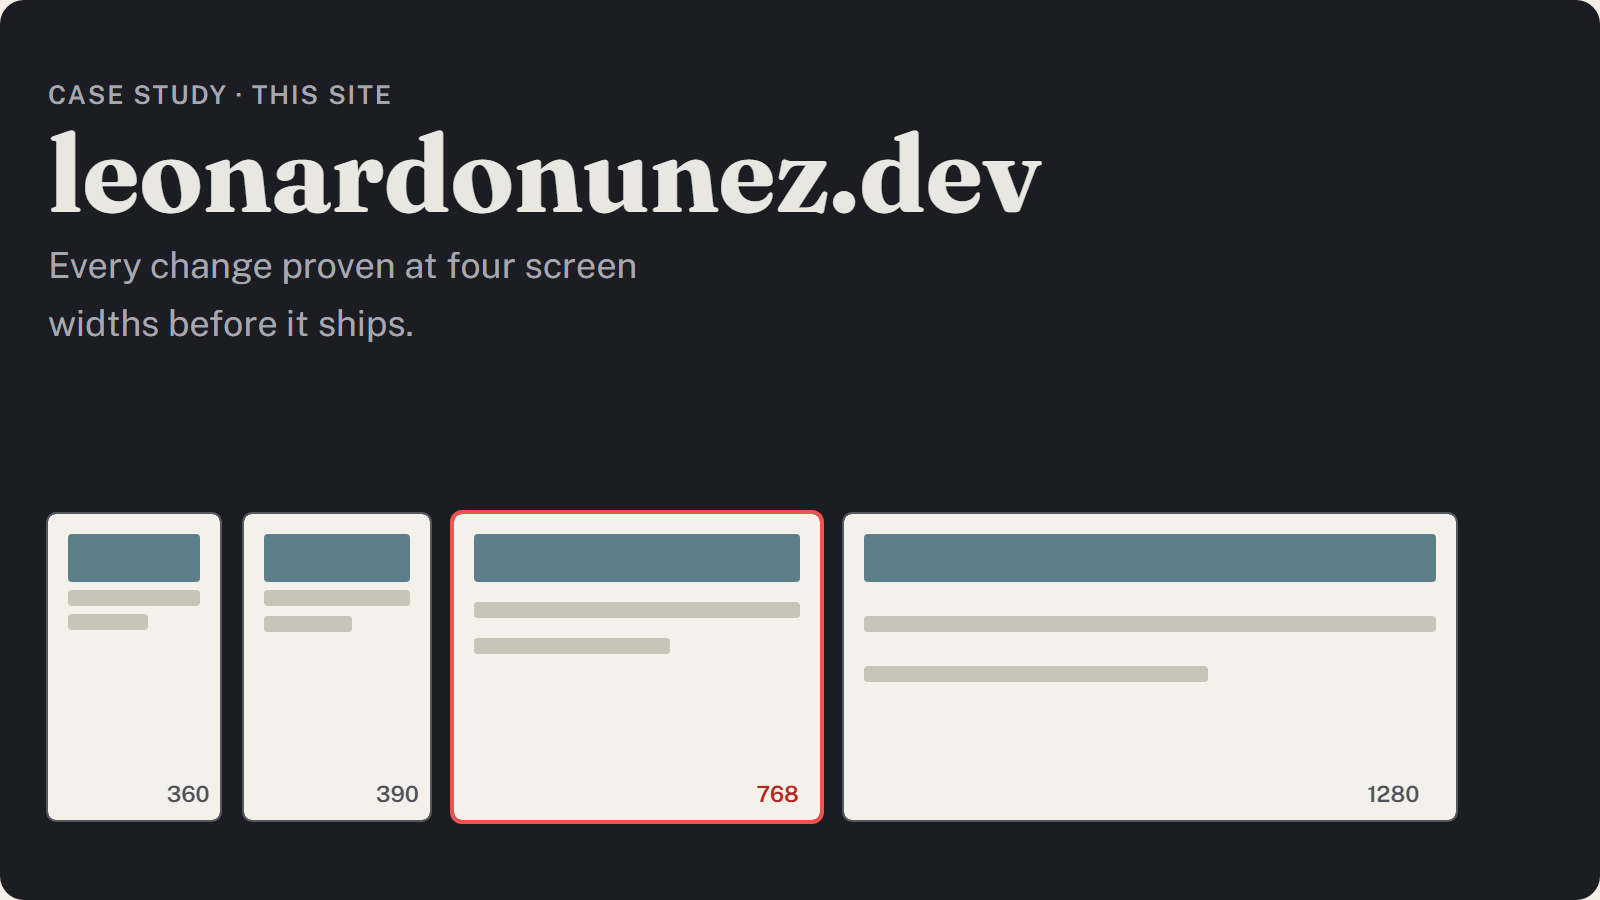
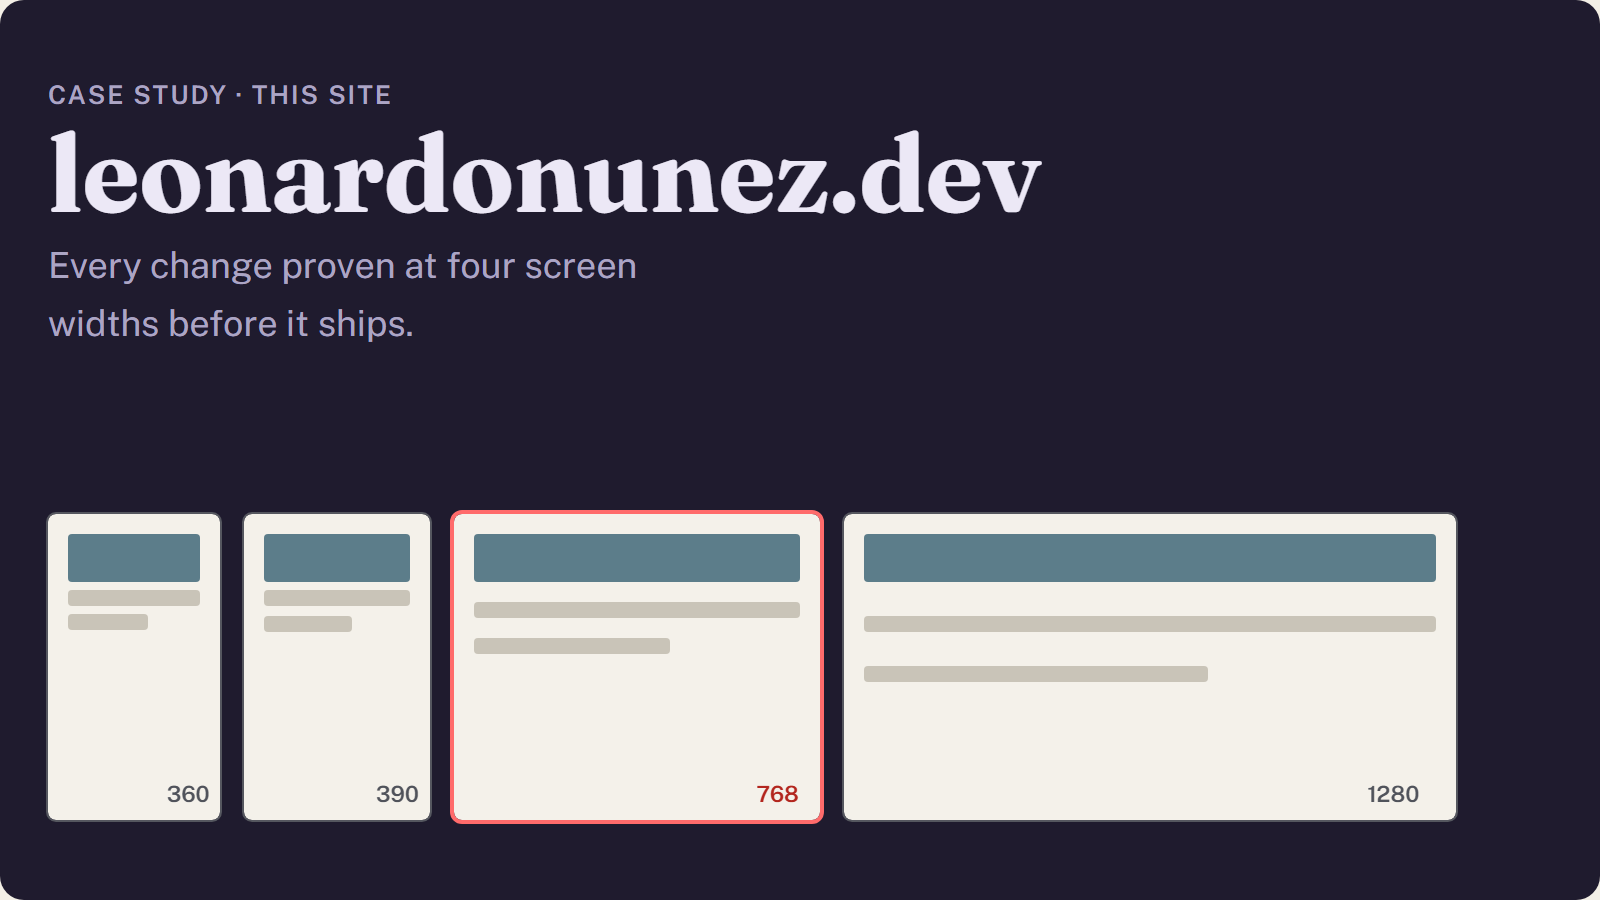
Apply the site world's palette: Ink and violet

Changed region(s): [[0.2812, 0.56, 0.5312, 0.5911], [0.2812, 0.9022, 0.5, 0.9333]]

diff --git a/src/worlds/site/world.css b/src/worlds/site/world.css
@@ -1,23 +1,24 @@
-/* The leonardonunez.dev world. Placeholder colours until the palette round; the roles are fixed: pass, fail, and
-   the outline marking what failed. The miniature pages keep the site's own paper and ink. */
+/* The leonardonunez.dev world: "Ink and violet" (palette B, the owner's pick on 2026-10-19). Deep indigo with a
+   violet action, apart from satis's amber and lanes' teal. Roles are fixed: pass, fail, and the outline marking
+   what failed. The miniature pages keep the site's own paper and ink. */
 .world-site {
-  --site-bg: #1c1d22;
-  --site-ink: #e9e7e1;
-  --site-dim: #a7a7b1;
-  --site-pass: #6fd49a;
-  --site-fail: #ef5350;
+  --site-bg: #1f1b2e;
+  --site-ink: #ece8f6;
+  --site-dim: #aca5c4;
+  --site-pass: #7fd8a6;
+  --site-fail: #ff6b6b;
   --site-paper: #f4f1ea;
   --site-text: #1d1f24;
   --site-muted: #50535b;
   --fig-bg: var(--site-bg);
   --fig-ink: var(--site-ink);
   --fig-dim: var(--site-dim);
-  --fig-rule: #55575f;
-  --fig-bar: #23242a;
-  --fig-btn: #34363d;
-  --fig-btn-hover: #43454d;
-  --fig-accent: #8fb3ff;
-  --fig-on-accent: #10131a;
+  --fig-rule: #5a5378;
+  --fig-bar: #262138;
+  --fig-btn: #363050;
+  --fig-btn-hover: #453e63;
+  --fig-accent: #b79cff;
+  --fig-on-accent: #1a1430;
   --fig-done: var(--site-pass);
   --fig-on: var(--site-pass);
   --fig-off: var(--site-fail);
